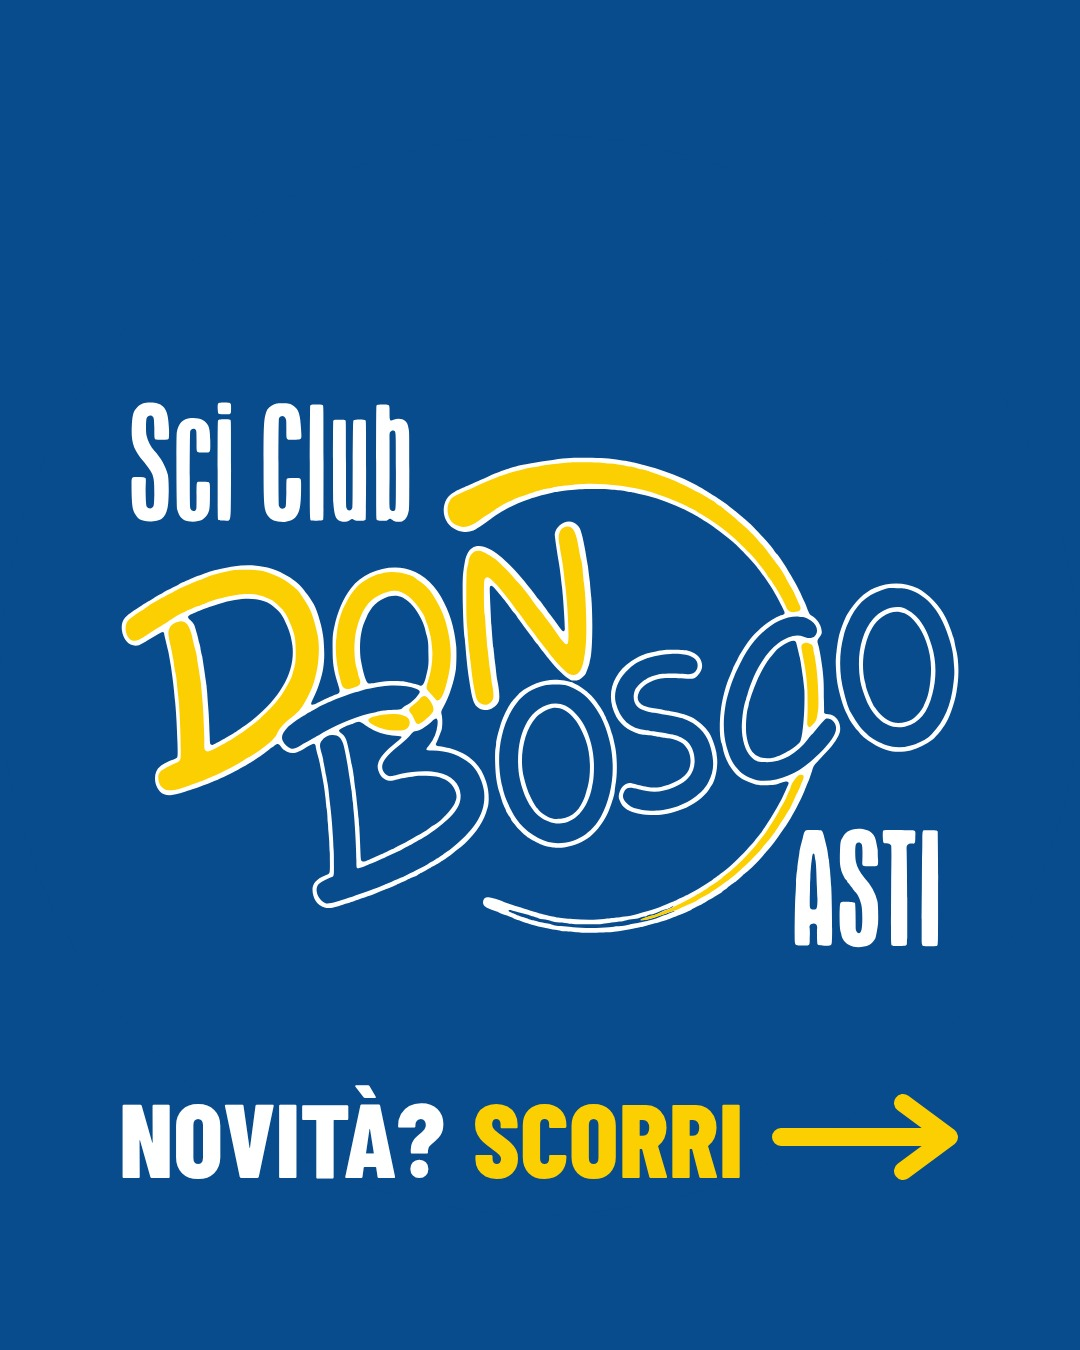
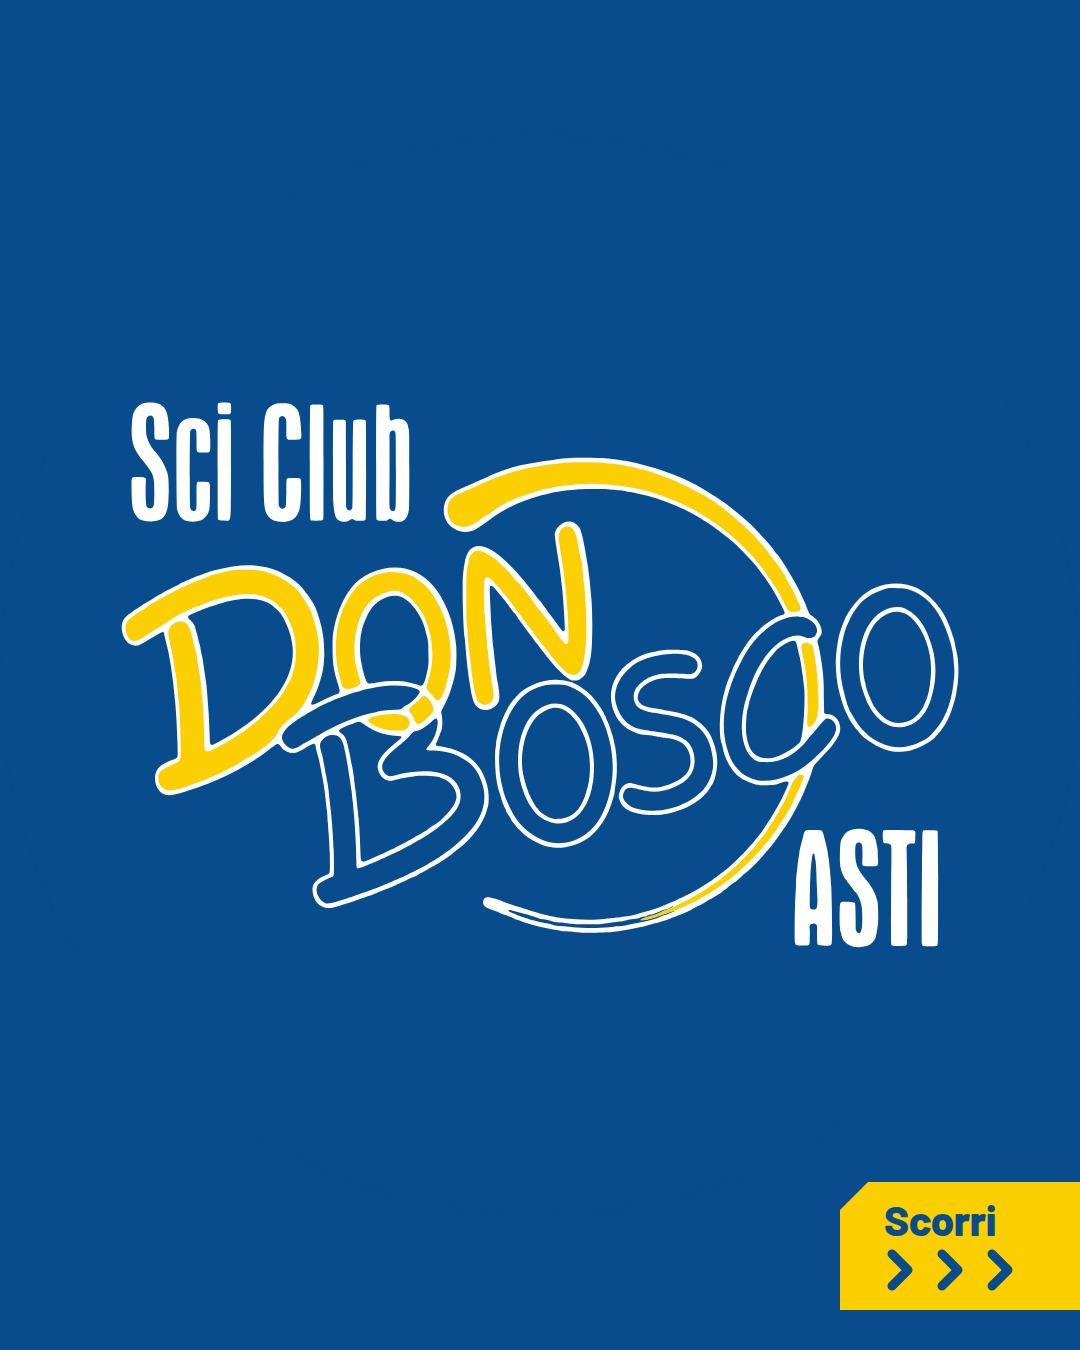
fix(grafica): copertina del carosello con la sola linguetta «Scorri» del post
La scritta «Novità? Scorri» e la freccia lasciano il posto alla stessa linguetta gialla con le tre
frecce usata nella seconda pagina.

Changed region(s): [[0.0917, 0.8089, 1.0, 0.9956]]

diff --git a/grafica/presciistica-carosello/sorgenti/carosello.html b/grafica/presciistica-carosello/sorgenti/carosello.html
@@ -18,15 +18,11 @@
 
     /* Copertina: il logo del post «Don Bosco mode: on» a tutta larghezza; il suo cerchio ha lo stesso blu del fondo. */
     #logo-grande { position: absolute; left: 0; top: 135px; width: 1080px; height: 1080px; }
-    #invito { position: absolute; left: 0; right: 0; top: 1085px; display: flex; justify-content: center; align-items: center; gap: 28px;
-      font: 800 104px/1 "Barlow Condensed", sans-serif; text-transform: uppercase; }
-    #invito b { font-weight: 800; color: #FCCF02; }
-    #freccia { width: 190px; height: 88px; }
 
-    /* Invito a scorrere nel post: una linguetta gialla appesa al bordo destro, con l'angolo tagliato come la tessera. */
-    .sk .scorri { position: absolute; right: 0; bottom: 40px; width: 240px; padding: 16px 30px 18px 44px; background: #FCCF02; color: #084C8D;
+    /* Invito a scorrere, uguale in copertina e nel post: una linguetta gialla appesa al bordo destro, con l'angolo tagliato come la tessera. */
+    .scorri { position: absolute; right: 0; bottom: 40px; font-family: Barlow, sans-serif; width: 240px; padding: 16px 30px 18px 44px; background: #FCCF02; color: #084C8D;
       clip-path: polygon(28px 0, 100% 0, 100% 100%, 0 100%, 0 28px); font-size: 42px; font-weight: 800; line-height: 1; letter-spacing: -.01em; }
-    .sk .scorri svg { display: block; width: 150px; height: 44px; margin-top: 8px; }
+    .scorri svg { display: block; width: 150px; height: 44px; margin-top: 8px; }
 
     /* Finale: le misure di grafica/video-stagione/compositions/frames/05-seguici.html, sul formato del post. */
     #bosco { position: absolute; inset: 0; width: 100%; height: 100%; object-fit: cover; }
@@ -50,17 +46,17 @@
   <script>
     SOCIAL.logoTondo = "../../../web/logo-ufficiale-blu-tondo.svg";
 
+    const SCORRI = `<div class="scorri">Scorri<svg viewBox="0 0 150 44" aria-hidden="true"><path d="M8 6l16 16L8 38M58 6l16 16-16 16M108 6l16 16-16 16"
+      fill="none" stroke="currentColor" stroke-width="9" stroke-linecap="round" stroke-linejoin="round"/></svg></div>`;
+
     const COVER = `<div class="pagina">
       <img id="logo-grande" src="../../../web/logo-ufficiale-blu-tondo.svg" alt="Sci Club Don Bosco Asti">
-      <div id="invito"><span>Novità?</span><b>Scorri</b>
-        <svg id="freccia" viewBox="0 0 190 88" aria-hidden="true"><path d="M10 44H176M132 10l46 34-46 34" fill="none" stroke="#FCCF02" stroke-width="18" stroke-linecap="round" stroke-linejoin="round"/></svg></div>
+      ${SCORRI}
     </div>`;
 
     // La tessera ha la stessa struttura di cardK(), con il «quando» che vale tutte le settimane.
     const OGNI = `<div class="tessera"><b data-fit style="font-size:124px">ogni</b>
       <span data-fit style="font-size:66px">mercoledì</span><em data-fit style="font-size:58px">ore 19:30</em></div>`;
-    const SCORRI = `<div class="scorri">Scorri<svg viewBox="0 0 150 44" aria-hidden="true"><path d="M8 6l16 16L8 38M58 6l16 16-16 16M108 6l16 16-16 16"
-      fill="none" stroke="currentColor" stroke-width="9" stroke-linecap="round" stroke-linejoin="round"/></svg></div>`;
     // Gancio, titolo e dati con la stessa struttura di postK().
     const POST = bgK({ giallo: true, foto: "foto-palestra.jpg", pos: "50% 100%", zoom: 1.2 }, OGNI + SCORRI,
       `<div class="testo" data-adatta=".6"><div class="gancio">Riservata ai soci</div>

diff --git a/grafica/presciistica-carosello/README.md b/grafica/presciistica-carosello/README.md
@@ -2,8 +2,8 @@
 
 Tre pagine 1080×1350 per Instagram e Facebook, da pubblicare in quest'ordine:
 
-1. `presciistica-1.jpg`: la copertina, con il logo del post «Don Bosco mode: on» al centro del fondo blu e,
-   sotto, «Novità? Scorri» con la freccia gialla.
+1. `presciistica-1.jpg`: la copertina, con il logo del post «Don Bosco mode: on» al centro del fondo blu e la
+   linguetta gialla «Scorri» con le tre frecce in basso a destra.
 2. `presciistica-2.jpg`: l'attività riservata ai soci, disegnata con le funzioni del generatore dei post
    (`web/social-templates.js`) nella grafica K · Piani del post pubblicato su Facebook il 16/10/2026.
    La tessera dice «ogni mercoledì» invece della data di inizio; in basso a destra c'è la linguetta «Scorri».
